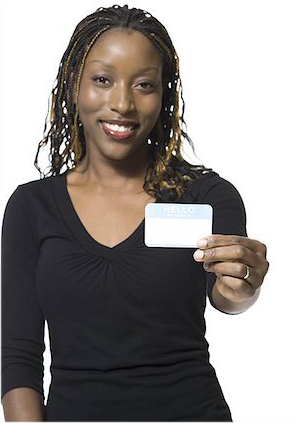
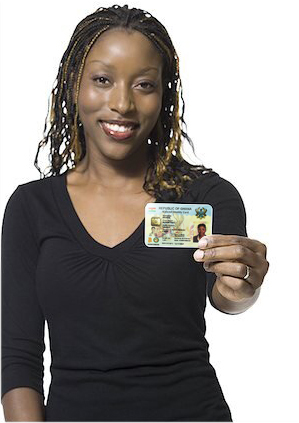
KYC and Digital Accounts pages updated

Changed region(s): [[0.4816, 0.461, 0.7224, 0.5839]]

diff --git a/src/screens/KYC/Kyc.jsx b/src/screens/KYC/Kyc.jsx
@@ -1,17 +1,21 @@
 import React from "react";
-import { Navbar } from "../../components";
+import { Footer, Navbar } from "../../components";
 import HeaderSection from "../../components/HeaderSection/HeaderSection";
 import customerHoldingId from "../../assets/custHoldingId.png";
 import codeSnippet from "../../assets/codeSnippet.png";
 // import idVerification from "../../assets/Id Verification.png";
 import idVerification from "../../assets/Id_Verification.png";
+import kycImage from "../../assets/EnhancedKyc/verified-1.webp";
 import gps from "../../assets/gps.png";
 // import consentVerification from "../../assets/consent.png";
 import phoneNumberVerification from "../../assets/EnhancedKyc/Screenshot 2022-06-02 at 2.24.14 PM.png";
 import IDVerification from "../../assets/EnhancedKyc/Screenshot 2022-06-02 at 2.37.05 PM.png";
 import consentVerification from "../../assets/EnhancedKyc/consentVerification.jpg";
+import verified from "../../assets/EnhancedKyc/verified-1.webp";
+import holdingID from "../../assets/EnhancedKyc/HoldingIDtaking picture.jpg";
 import ResponsiveNav from "../../components/ResponsiveNav/ResponsiveNav";
 import NavedSection from "../../components/NavedSection/NavedSection";
+import SectionGrandHeader from "../../components/HeroKYCHeader/SectionGrandHeader";
 
 let captionsJSX = [
   "",
@@ -49,12 +53,43 @@ function LeadInText({ JSXArray }) {
 function KYC() {
   return (
     <div>
-      {/* <ResponsiveNav makeMenuDark /> */}
-      <HeaderSection
+      <ResponsiveNav makeMenuDark />
+      <SectionGrandHeader
+        mainCaption={"Easiest way to Verify and Onboard users."}
+        description={
+          "Verify Phone Numbers, ID Cards, and Addresses. Verify user’s consent in real-time with consent verification. Know that people are who they say they are, Faster."
+        }
+        image={kycImage}
+        showButton={true}
+        buttonTitle={"Explore Docs"}
+      />
+      {/*      <HeaderSection
         smallerHeader
         makeMenuDark
         isDarkHeaderText
         buttonText="Read the Docs"
+        // introLogo={introLogo}
+        Caption={"Easiest way to Verify and Onboard users."}
+        showImage={true}
+        noGradient
+        oneImageHeader={true}
+        BelowCaptionText={captionsJSX[0]}
+        headerImages={[verified]}
+        logoBlack
+      >
+        <>
+          Verify Phone Numbers, ID Cards, and Addresses. Verify user’s consent
+          in real-time with consent verification. Know that people are who they
+          say they are, Faster.
+        </>
+      </HeaderSection> */}
+      <HeaderSection
+        smallerHeader
+        makeMenuDark
+        reverse
+        isDarkHeaderText
+        buttonText="Read the Docs"
+        noHeader
         // introLogo={introLogo}
         Caption={"Phone Number Verification"}
         showImage={true}
@@ -88,7 +123,6 @@ function KYC() {
         </>
       </HeaderSection>
       <HeaderSection
-        reverse
         controlSectionImage
         noHeader
         smallerHeader
@@ -100,10 +134,11 @@ function KYC() {
         noGradient
         oneImageHeader={true}
         BelowCaptionText={captionsJSX[1]}
-        headerImages={[IDVerification]}
+        headerImages={[holdingID]}
         logoBlack
       />
       <HeaderSection
+        reverse
         controlSectionImage
         noHeader
         smallerHeader
@@ -121,7 +156,6 @@ function KYC() {
       />
       <HeaderSection
         controlSectionImage
-        reverse
         noHeader
         smallerHeader
         makeMenuDark
@@ -137,6 +171,7 @@ function KYC() {
         headerImages={[gps]}
         logoBlack
       />
+      <Footer />
     </div>
   );
 }

diff --git a/src/components/HeroKYCHeader/SectionGrandHeader.jsx b/src/components/HeroKYCHeader/SectionGrandHeader.jsx
@@ -1,0 +1,60 @@
+import React from "react";
+import Buttons from "../Buttons/Buttons";
+import { SingleImage } from "../ImageBox/ImageBox";
+import ImageBox from "../ImageBox/ImageBox";
+import Features from "../Features/Features";
+
+function SectionGrandHeader({
+  description,
+  increaseMargin,
+  header,
+  leadingCaption,
+  mainCaption,
+  children,
+  image,
+  features,
+  showButton = false,
+  buttonTitle,
+  singleImage = true,
+  api_Image,
+  hrPresent = false,
+}) {
+  return (
+    <div
+      className={`w-full h-screen bg-gray-100 mt-${
+        increaseMargin ? increaseMargin : "0"
+      }`}
+    >
+      <div className={`${"text-black"} w-12/12 ml-12 md:ml-56`}>
+        <div
+          className={`flex flex items-center gap-4 md:gap-12 flex-wrap md:flex-nowrap`}
+        >
+          <div className="flex flex-col justify-center">
+            <h3 className="text-lg font-bold uppercase ">{leadingCaption}</h3>
+            <h1 className="text-6xl font-bold">{mainCaption}</h1>
+            <p className="my-8">{description}</p>
+            {children && children}
+            {showButton ? (
+              <Buttons
+                btnBGColor="primary"
+                buttonTitle={buttonTitle}
+                darkButton={false}
+              />
+            ) : (
+              ""
+            )}
+          </div>
+          <div className="">
+            <img className="h-screen object-contain" src={image} alt="" />
+          </div>
+        </div>
+        {hrPresent && <hr className="my-12" />}
+        <div className="grid grid-cols-4 py-8 gap-24">
+          {features && <Features features={features} />}
+        </div>
+      </div>
+    </div>
+  );
+}
+
+export default SectionGrandHeader;
